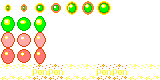
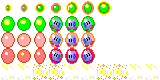
Pausa de implementación atrapar enemigo en pompa

Changed region(s): [[0.2812, 0.2, 0.5938, 0.825]]

diff --git a/game1/src/AdministradorPompas.cpp b/game1/src/AdministradorPompas.cpp
@@ -4,7 +4,7 @@
 #include <vector>
 #include <iostream> //Para debuggear
 
-typedef std::shared_ptr<Enemigo> sh_Enemigo;
+
 
 class AdministradorPompas{
 public:
@@ -35,6 +35,17 @@ public:
 				//pompas.erase(aBorrar); //-->Necesita comparador entre pompas
 				pompas = elimina(i);
 				i--;
+			} else if (pompas.at(i).disparada > 0) { //comprueba contacto con los enemigos
+				for (int j = 0; j < enemigos.size(); j++) {
+					if ((pompas.at(i).destRec.x + pompas.at(i).destRec.width/2) > (enemigos.at(j)->destRec.x - enemigos.at(j)->destRec.width/2)
+					&& (pompas.at(i).destRec.x - pompas.at(i).destRec.width / 2) < (enemigos.at(j)->destRec.x - enemigos.at(j)->destRec.width / 2)
+					|| (pompas.at(i).destRec.x + pompas.at(i).destRec.width / 2) > (enemigos.at(j)->destRec.x + enemigos.at(j)->destRec.width / 2)
+					&& (pompas.at(i).destRec.x - pompas.at(i).destRec.width / 2) < (enemigos.at(j)->destRec.x + enemigos.at(j)->destRec.width / 2)) { //Si choca con el enemigo, lo marca para que se borre y se cambia el estado de la pompa
+						enemigos.at(j)->borrame = true;
+						pompas.at(i).modulo = enemigos.at(i)->tipo;
+
+					}
+				}
 			} else {
 				pompas.at(i).Actualizar(posicionJugador, jugadorCayendo, sentidoJugador);
 			}

diff --git a/game1/src/clasesConSprite/Pompa.cpp b/game1/src/clasesConSprite/Pompa.cpp
@@ -45,7 +45,7 @@ void Pompa::Inicializador(const Rectangle origen, float velDisparo, float distan
 
 }
 
-void Pompa::Actualizar(Rectangle pJ1, bool cayendoJ1, int sentidoJ1) {
+sh_Enemigo Pompa::Actualizar(Rectangle pJ1, bool cayendoJ1, int sentidoJ1) {
 	if (disparada == 2) {
 		//std::cout << "PIUM" << std::endl;
 		distanciaRecorrida += velocidadDesplazamiento; //Actualiza el contador
@@ -62,6 +62,9 @@ void Pompa::Actualizar(Rectangle pJ1, bool cayendoJ1, int sentidoJ1) {
 			animacionActiva = EXPLOTA;
 			indiceAnimacion = 0;
 			tVida--;
+
+			sh_Robot robo = std::make_shared<Robot>(Robot("resources/enemyRobot/robotBasic.png", 2.0f, 40.0f, 1.0f, 1.0f, 60));
+			robo->destRec = destRec;
 		}
 		else if (tVida > 0) {
 			disparada = 0;
@@ -150,7 +153,15 @@ void Pompa::Actualizar(Rectangle pJ1, bool cayendoJ1, int sentidoJ1) {
 			break;
 		default:
 			//std::cout << "WHAT" << std::endl;
-			indiceAnimacion = 0;
+			if (modulo > 0) {
+				indiceAnimacion++;
+				if (indiceAnimacion >= (modulo * NUM_FOTOGRAMAS) + NUM_FOTOGRAMAS) {
+					indiceAnimacion = modulo * NUM_FOTOGRAMAS;
+				}
+			} else {
+				indiceAnimacion = 0;
+			}
+			
 			break;
 		};
 	}

diff --git a/game1/src/clasesConSprite/Pompa.hpp b/game1/src/clasesConSprite/Pompa.hpp
@@ -2,6 +2,7 @@
 #include "Sprite.hpp"
 #include <string>
 #include <cmath>
+#include "Robot.cpp"
 #include <iostream> //DEBUG
 
 // Aquí debajo se pondrán las constantes para especificar 
@@ -29,15 +30,17 @@ class Pompa : public Sprite {
 	const int NARANJA = 1;
 	const int ROJO = 2;
 
+	const int NUM_FOTOGRAMAS = 3;
+
 	const int widthAnimation = 16;
 	const int heightAnimation = 16;
 
 	const int fDisparo = 7;
 	const int fExplota = 10;
+	const int fAtrapado = 3;
 
 	//Razón a la que se va restando la vida a la pompa
 	const int VELOCIDAD_MUERTE = 1;
-	
 
 public:
 	static uint32_t ID_GLOBAL;
@@ -51,6 +54,7 @@ public:
 
 	//Enemigo contenido
 	int enemigoContenido = 0;
+	int modulo = 0;
 
 	//Desplazamiento
 	float velocidadDesplazamiento = 0;
@@ -74,7 +78,7 @@ public:
 
 	void Inicializador(const Rectangle origen, float velDisparo, float distanciaDisparo, bool esDisparada, int tiempoVida);
 
-	void Actualizar(Rectangle pJ1, bool cayendoJ1, int sentidoJ1);
+	sh_Enemigo Actualizar(Rectangle pJ1, bool cayendoJ1, int sentidoJ1);
 
 	void Dibujar();
 };

diff --git a/game1/src/clasesConSprite/Enemigo.cpp b/game1/src/clasesConSprite/Enemigo.cpp
@@ -5,7 +5,7 @@
 
 class Enemigo : public Sprite {
 public:
-    int tipo = -1; // 0->Robot
+    int tipo = -1; // 1->Robot
     bool borrame = false; //Eliminarlo de la lista
     bool muerto = false; //Iniciar animacion de muerte
     
@@ -65,3 +65,5 @@ public:
     //    DrawTexturePro(sprite, srcRec, destRec, origin, 0.0f, WHITE);
     //}
 };
+
+typedef std::shared_ptr<Enemigo> sh_Enemigo;
